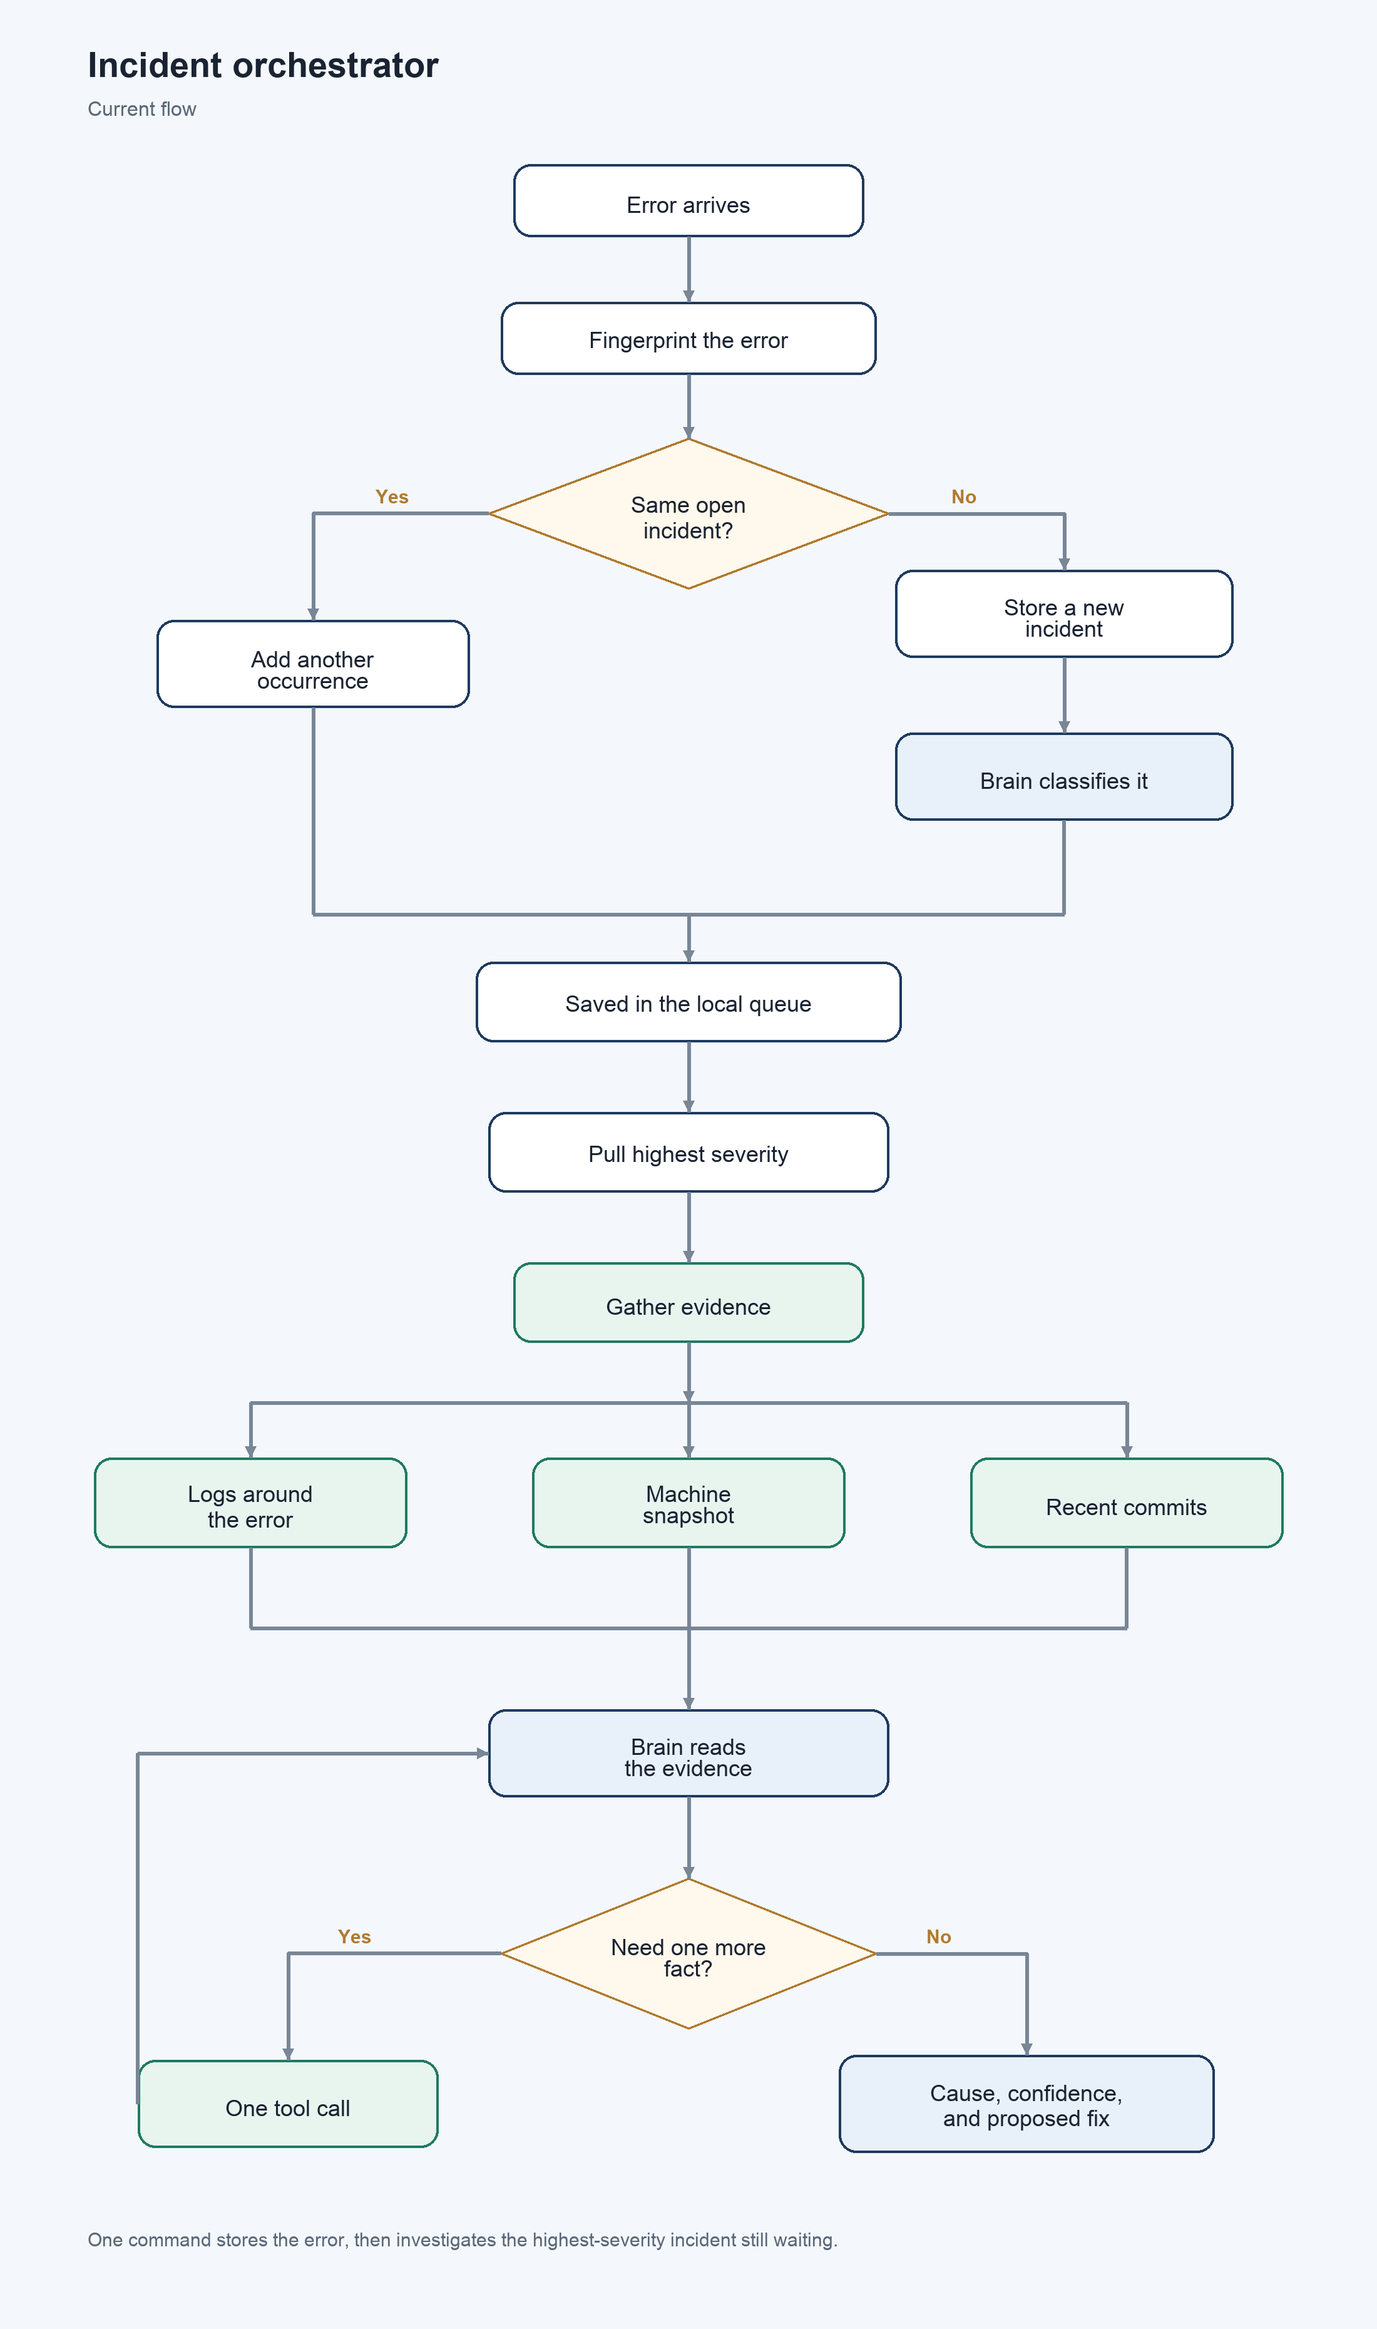
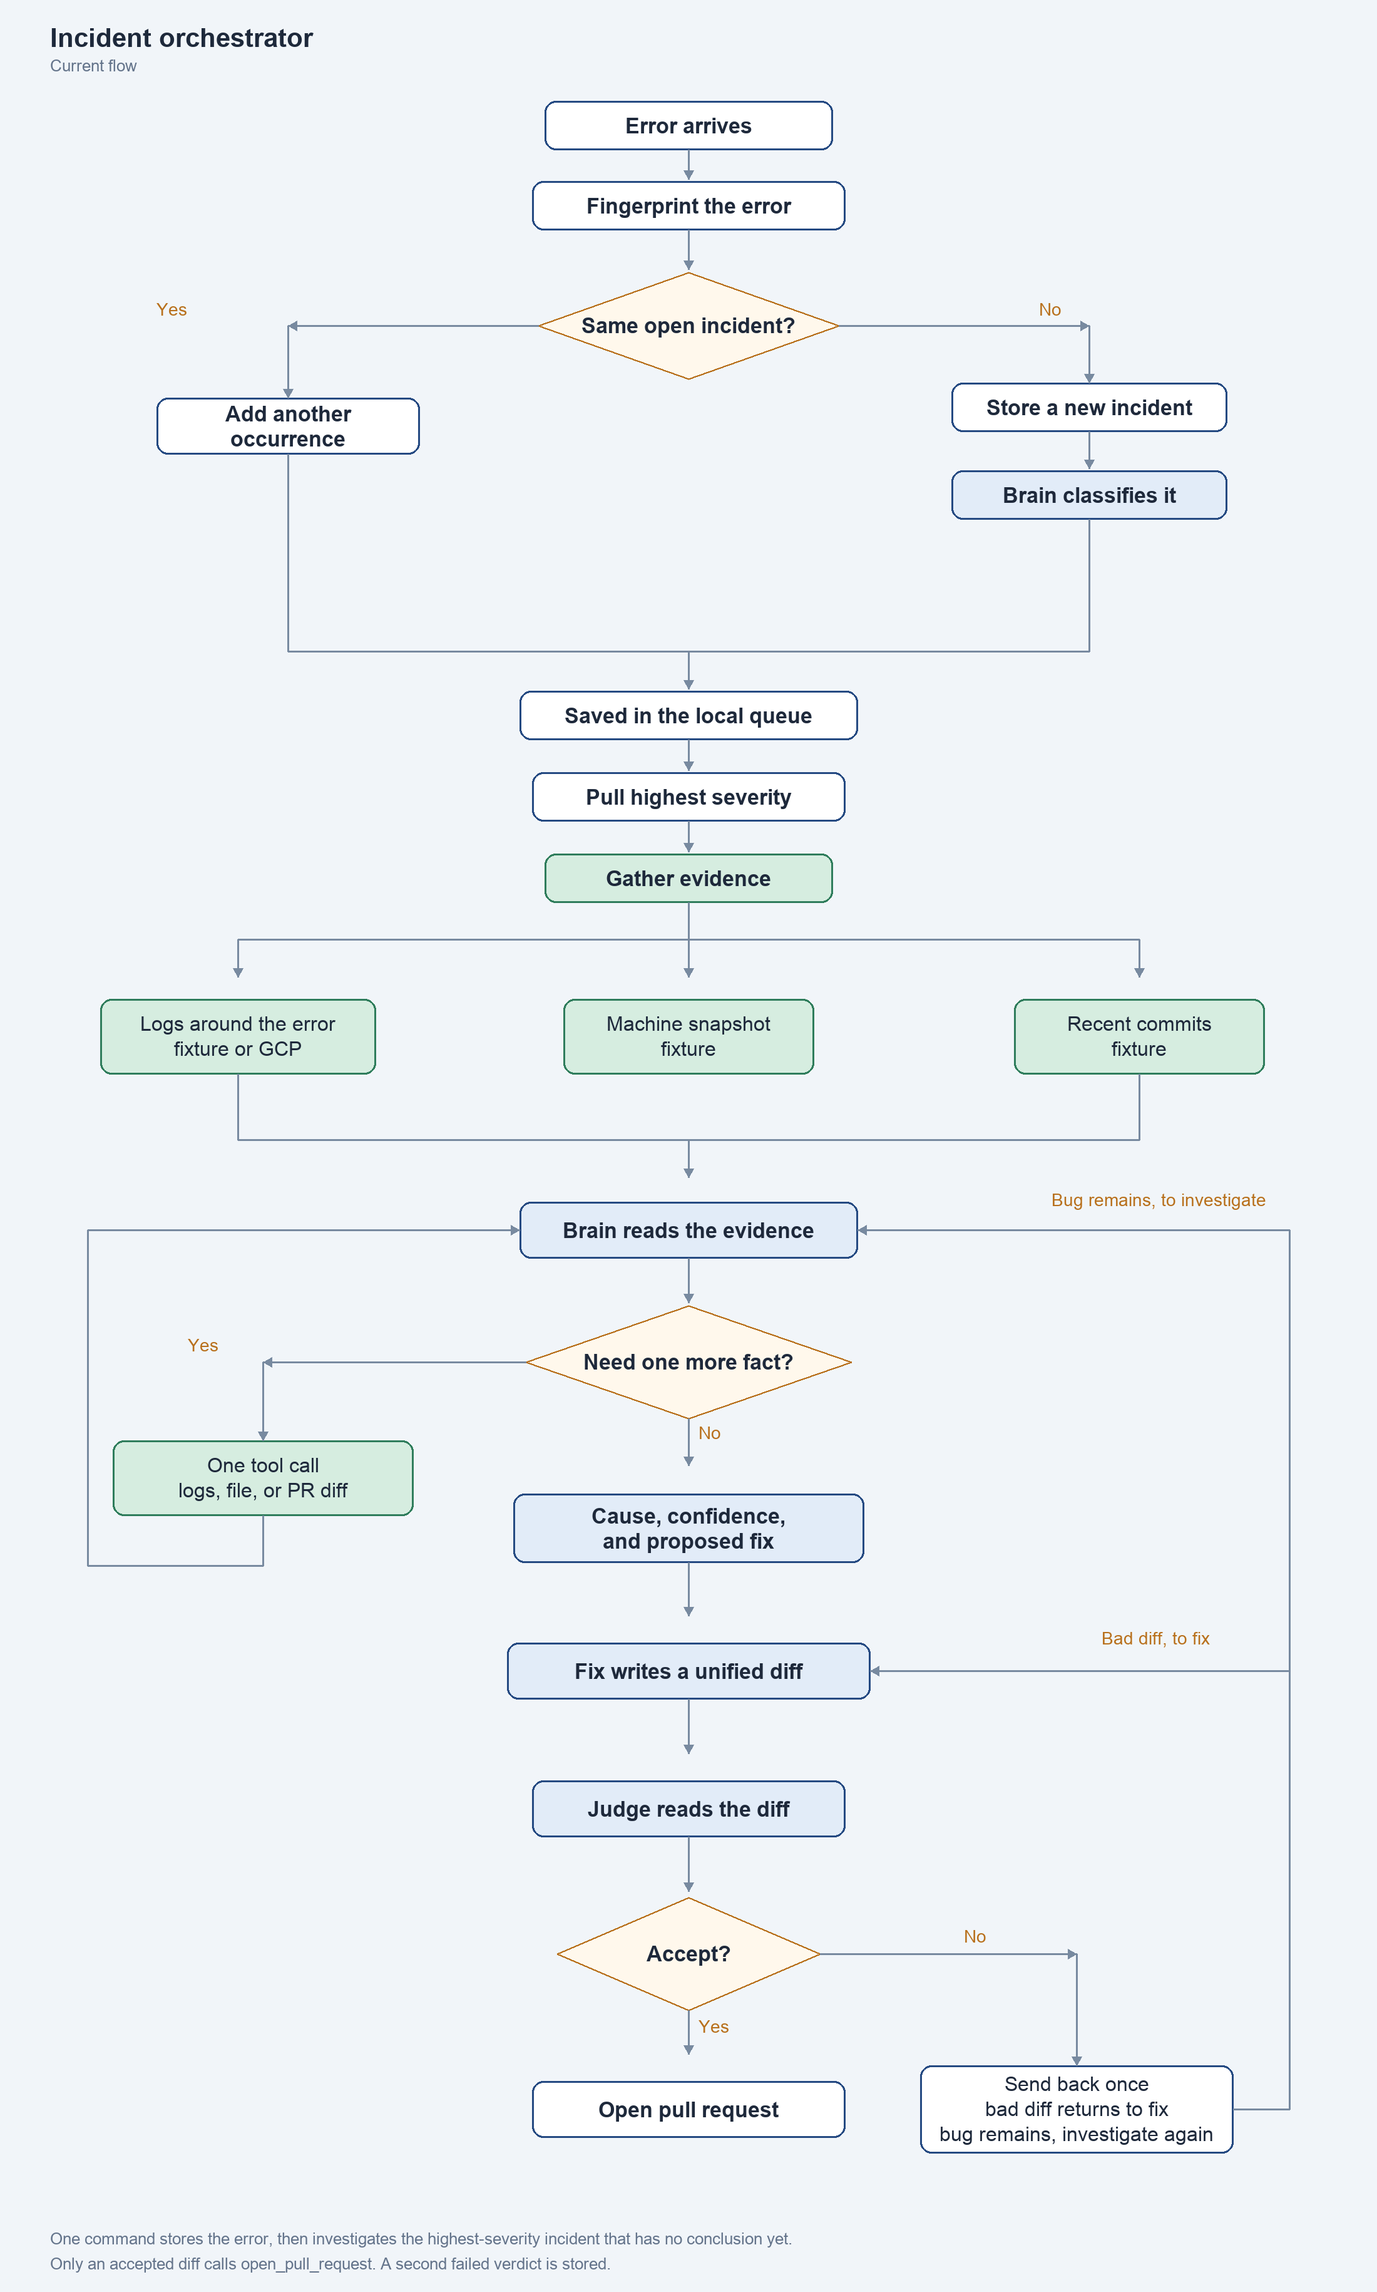
Read logs and GitHub through the MCP servers when the tunnels are up.

diff --git a/agentsmith/adapters/logs.py b/agentsmith/adapters/logs.py
@@ -1,11 +1,17 @@
-"""Fixture logs. Reads fixtures/logs.json and filters by machine, service, and time."""
+"""Logs. fixture reads fixtures/logs.json. mcp calls query_logs on the GCP MCP server."""
 
-from datetime import datetime
+import json
+import os
+from datetime import datetime, timedelta
 
 from pydantic import TypeAdapter
 
 from agentsmith.adapters.fixture_io import as_utc, load_fixture
-from agentsmith.tools import LogRecord
+from agentsmith.adapters.mcp_client import call_tool
+from agentsmith.tools import LogRecord, ToolError
+
+_DEFAULT_MCP_URL = "http://127.0.0.1:8000/mcp"
+_PAGE = 50  # ponytail: one query_logs page; follow next_cursor if a window needs more than 50 lines
 
 _LOGS = TypeAdapter(list[LogRecord])
 
@@ -32,3 +38,97 @@ class FixtureLogs:
             and (service is None or record.service == service)
         ]
         return sorted(matched, key=lambda record: as_utc(record.timestamp))
+
+
+class McpLogs:
+    """Calls query_logs on mcp-gcp. The SSH tunnel must already be open."""
+
+    def __init__(self, url: str | None = None) -> None:
+        self.url = (url or os.environ.get("LOGS_MCP_URL") or _DEFAULT_MCP_URL).strip()
+
+    def get_logs(
+        self,
+        *,
+        machine_id: str | None,
+        start_time: datetime,
+        end_time: datetime,
+        service: str | None = None,
+    ) -> list[LogRecord]:
+        start = as_utc(start_time)
+        end = as_utc(end_time)
+        hours = max((end - start).total_seconds() / 3600, 0.01)
+        raw = call_tool(
+            self.url,
+            "query_logs",
+            {
+                "filter": _service_filter(service),
+                "hours": hours,
+                "end": end.strftime("%Y-%m-%dT%H:%M:%SZ"),
+                "limit": _PAGE,
+            },
+            server="GCP logs",
+        )
+        try:
+            payload = json.loads(raw)
+            entries = payload["entries"]
+        except (TypeError, KeyError, json.JSONDecodeError) as exc:
+            raise ToolError("query_logs must return JSON with entries") from exc
+        records = []
+        for entry in entries:
+            record = _record(entry, machine_id=machine_id, service=service)
+            if record is not None and start <= as_utc(record.timestamp) <= end:
+                records.append(record)
+        return records
+
+
+def _service_filter(service: str | None) -> str:
+    if not service:
+        return ""
+    safe = service.replace("\\", "\\\\").replace('"', '\\"')
+    return (
+        f'(jsonPayload.app="{safe}" OR resource.labels.container_name="{safe}" '
+        f'OR resource.labels.pod_name:"{safe}" OR textPayload:"{safe}")'
+    )
+
+
+def _record(entry: object, *, machine_id: str | None, service: str | None) -> LogRecord | None:
+    if not isinstance(entry, dict) or not entry.get("time"):
+        return None
+    labels = entry.get("labels") if isinstance(entry.get("labels"), dict) else {}
+    payload = entry.get("payload")
+    message = payload if isinstance(payload, str) else json.dumps(payload, default=str)
+    return LogRecord(
+        timestamp=entry["time"],
+        machine_id=machine_id or str(labels.get("pod_name") or labels.get("cluster_name") or "gcp"),
+        service=service or str(labels.get("container_name") or entry.get("log") or "gcp"),
+        severity=str(entry.get("severity") or "DEFAULT"),
+        message=message,
+    )
+
+
+def _self_check() -> None:
+    end = datetime.fromisoformat("2026-10-07T12:25:18+00:00")
+    start = end - timedelta(minutes=2)
+    assert _service_filter("analyzer_reader").startswith("(jsonPayload.app=")
+    assert _service_filter(None) == ""
+    record = _record(
+        {
+            "time": "2026-10-07T12:25:18.651763567Z",
+            "severity": "ERROR",
+            "log": "stdout",
+            "labels": {"pod_name": "livekit"},
+            "payload": {"message": "Failed to delete room"},
+        },
+        machine_id=None,
+        service=None,
+    )
+    assert record is not None
+    assert record.machine_id == "livekit"
+    assert "Failed to delete room" in record.message
+    assert as_utc(record.timestamp) > start
+    assert isinstance(FixtureLogs(), FixtureLogs)
+
+
+if __name__ == "__main__":
+    _self_check()
+    print("ok")

diff --git a/agentsmith/adapters/github.py b/agentsmith/adapters/github.py
@@ -1,10 +1,10 @@
 """GitHub access. fixture reads local samples; mcp calls the GitHub MCP server."""
 
-import asyncio
 import json
 import os
 from pathlib import Path
 
+from agentsmith.adapters.mcp_client import call_tool
 from agentsmith.tools import PullRequest, ToolError
 
 _FIXTURE = Path(__file__).resolve().parent.parent.parent / "fixtures" / "github.json"
@@ -59,16 +59,19 @@ class McpGitHub:
         arguments = {"repo": repo, "path": path}
         if ref:
             arguments["ref"] = ref
-        return _call_tool(self.url, "get_file", arguments)
+        return call_tool(self.url, "get_file", arguments, server="GitHub")
 
     def get_pull_request_diff(self, *, repo: str, number: int) -> str:
-        return _call_tool(self.url, "get_pull_request_diff", {"repo": repo, "number": number})
+        return call_tool(
+            self.url, "get_pull_request_diff", {"repo": repo, "number": number}, server="GitHub"
+        )
 
     def open_pull_request(self, *, repo: str, title: str, body: str, diff: str) -> PullRequest:
-        raw = _call_tool(
+        raw = call_tool(
             self.url,
             "open_pull_request",
             {"repo": repo, "title": title, "body": body, "diff": diff},
+            server="GitHub",
         )
         try:
             data = json.loads(raw)
@@ -78,36 +81,3 @@ class McpGitHub:
             raise ToolError("open_pull_request must return JSON with number and html_url") from exc
         return PullRequest(repo=repo, number=number, title=str(data.get("title") or title), html_url=url)
 
-
-def _call_tool(url: str, name: str, arguments: dict) -> str:
-    try:
-        return asyncio.run(_call_tool_async(url, name, arguments))
-    except ToolError:
-        raise
-    except Exception as exc:
-        raise ToolError(f"GitHub MCP {name} failed: {exc}") from exc
-
-
-async def _call_tool_async(url: str, name: str, arguments: dict) -> str:
-    from mcp import ClientSession
-    from mcp.client.streamable_http import streamable_http_client
-
-    async with streamable_http_client(url) as (read_stream, write_stream):
-        async with ClientSession(read_stream, write_stream) as session:
-            await session.initialize()
-            result = await session.call_tool(name, arguments)
-    if getattr(result, "is_error", False):
-        raise ToolError(_result_text(result) or f"GitHub MCP {name} returned an error")
-    text = _result_text(result)
-    if not text:
-        raise ToolError(f"GitHub MCP {name} returned no text")
-    return text
-
-
-def _result_text(result: object) -> str:
-    parts = []
-    for block in getattr(result, "content", []) or []:
-        text = getattr(block, "text", None)
-        if text:
-            parts.append(text)
-    return "\n".join(parts)

diff --git a/agentsmith/adapters/mcp_client.py b/agentsmith/adapters/mcp_client.py
@@ -1,0 +1,39 @@
+"""One streamable-HTTP call to an MCP tool server."""
+
+import asyncio
+
+from agentsmith.tools import ToolError
+
+
+def call_tool(url: str, name: str, arguments: dict, *, server: str) -> str:
+    try:
+        return asyncio.run(_call_tool_async(url, name, arguments, server))
+    except ToolError:
+        raise
+    except Exception as exc:
+        raise ToolError(f"{server} MCP {name} failed: {exc}") from exc
+
+
+async def _call_tool_async(url: str, name: str, arguments: dict, server: str) -> str:
+    from mcp import ClientSession
+    from mcp.client.streamable_http import streamable_http_client
+
+    async with streamable_http_client(url) as (read_stream, write_stream):
+        async with ClientSession(read_stream, write_stream) as session:
+            await session.initialize()
+            result = await session.call_tool(name, arguments)
+    if getattr(result, "is_error", False):
+        raise ToolError(_result_text(result) or f"{server} MCP {name} returned an error")
+    text = _result_text(result)
+    if not text:
+        raise ToolError(f"{server} MCP {name} returned no text")
+    return text
+
+
+def _result_text(result: object) -> str:
+    parts = []
+    for block in getattr(result, "content", []) or []:
+        text = getattr(block, "text", None)
+        if text:
+            parts.append(text)
+    return "\n".join(parts)

diff --git a/agentsmith/tools.py b/agentsmith/tools.py
@@ -99,11 +99,11 @@ def load_tools() -> Toolset:
     load_project_env()
     from agentsmith.adapters.git import FixtureGit
     from agentsmith.adapters.github import FixtureGitHub, McpGitHub
-    from agentsmith.adapters.logs import FixtureLogs
+    from agentsmith.adapters.logs import FixtureLogs, McpLogs
     from agentsmith.adapters.telemetry import FixtureTelemetry
 
     return Toolset(
-        logs=_select("LOGS_ADAPTER", {"fixture": FixtureLogs}),
+        logs=_select("LOGS_ADAPTER", {"fixture": FixtureLogs, "mcp": McpLogs}),
         telemetry=_select("TELEMETRY_ADAPTER", {"fixture": FixtureTelemetry}),
         git=_select("GIT_ADAPTER", {"fixture": FixtureGit}),
         github=_select("GITHUB_ADAPTER", {"fixture": FixtureGitHub, "mcp": McpGitHub}),

diff --git a/AGENTS.md b/AGENTS.md
@@ -22,11 +22,9 @@ One command stores the error from the file you pass, then investigates the highe
 
 That directory is a local clone of the manager's platform, `lumanaai/agentic-dev`, and is gitignored. It is not part of this repo. He runs it on one VM with Docker Compose, the Claude Agent SDK, Redis, and Postgres. His agents edit code inside a worktree. We do not move this orchestrator onto that platform, and we do not start his ingress, scheduler, workers, Redis, or Postgres.
 
-We keep this pipeline and call his tools. The only tool server he has implemented is GitHub (`tools/mcp-servers/github`). A logs server is named in his README and has no code. His GitHub server is read-only and only answers for repos listed in his `config/repos.yaml` (currently `lumanaai/example-service`).
+We keep this pipeline and call his tools. The tool servers this loop uses are GitHub (`tools/mcp-servers/github`) and GCP logs (`tools/mcp-servers/gcp`). His GitHub server is read-only and only answers for repos listed in his `config/repos.yaml` (`lumanaai/analytics`, `lumanaai/edge`, `lumanaai/lumix-cloud`). `query_logs` reads Cloud Logging in the projects listed in his `config/mcp-servers.yaml`. Machine state and recent commits stay on fixture adapters. Do not treat loose commits as how this company ships. Production changes are merged pull requests.
 
-`get_file` and `get_pull_request_diff` go to that server when `GITHUB_ADAPTER=mcp`. Logs, machine state, and recent commits stay on fixture adapters until a real server exists. His server also has `list_merged_pull_requests` and `find_files` added in this clone; this loop does not call them yet. Do not treat loose commits as how this company ships. Production changes are merged pull requests.
-
-His GitHub container does not publish a port. It listens on the VM's Docker network. From this machine, forward that port with SSH and point `GITHUB_MCP_URL` at `http://127.0.0.1:8000/mcp`. The current login is `ibrahimjub@192.168.100.65`, and his checkout on that machine is `/agentic-dev`. The GitHub App private key stays on the VM in `/etc/agentic/secrets`. Do not copy it into this repo. This project does not need to run on that VM.
+`get_file` and `get_pull_request_diff` go to the GitHub server when `GITHUB_ADAPTER=mcp`. `get_logs` calls `query_logs` when `LOGS_ADAPTER=mcp`. Neither container publishes a port. Each listens on the VM's Docker network. From this machine, forward each container with SSH and point `LOGS_MCP_URL` and `GITHUB_MCP_URL` at the local ends of those tunnels. The current login is `ibrahimjub@192.168.100.65`, and his checkout on that machine is `/agentic-dev`. The GitHub App private key and the GCP service-account key stay on the VM in `/etc/agentic/secrets`. Do not copy them into this repo. This project does not need to run on that VM.
 
 ## Config
 

diff --git a/docs/architecture.md b/docs/architecture.md
@@ -19,16 +19,23 @@ flowchart TD
   count --> saved
   saved --> pull["Pull highest severity"]
   pull --> evidence["Gather evidence"]
-  evidence --> logs["Logs around the error"]
-  evidence --> machine["Machine snapshot"]
-  evidence --> commits["Recent commits"]
+  evidence --> logs["Logs: fixture or GCP"]
+  evidence --> machine["Machine snapshot: fixture"]
+  evidence --> commits["Recent commits: fixture"]
   logs --> brain["Brain reads the evidence"]
   machine --> brain
   commits --> brain
   brain --> more{"Need one more fact?"}
-  more -->|yes| tool["One tool call"]
+  more -->|yes| tool["One tool call: logs, file, or PR diff"]
   tool --> brain
   more -->|no| result["Cause, confidence, and proposed fix"]
+  result --> fix["Fix writes a unified diff"]
+  fix --> judge["Judge reads the diff"]
+  judge --> accept{"Accept?"}
+  accept -->|yes| pr["Open pull request"]
+  accept -->|no| back["Send back once"]
+  back -->|bad diff| fix
+  back -->|bug remains| brain
 ```
 
 The fingerprint is a hash of the service, the normalized message, and the top stack frames. Two reports of the same crash stay one incident. Classification chooses a category, a severity, the likely component, and a short reason. Severity orders the queue. The command then pulls the highest-severity incident that has no conclusion yet. That may be an older incident, not the error that just arrived.

diff --git a/README.md b/README.md
@@ -23,7 +23,7 @@ Folders:
 - `agentsmith/brains/` is the model boundary. Stages call a `Brain`. `ClaudeBrain` is the current implementation and runs as `sonnet` or `opus`.
 - `agentsmith/adapters/` is the only place that contacts an external system. Logs, git, telemetry, and issues each get one module.
 
-`agentsmith/tools.py` is the dispatcher stages call. The tools are `get_logs`, `get_machine_state`, `get_recent_changes`, `get_file`, `get_pull_request_diff`, and `open_pull_request`. `LOGS_ADAPTER`, `TELEMETRY_ADAPTER`, `GIT_ADAPTER`, and `GITHUB_ADAPTER` select the implementation. `fixture` is the default. `GITHUB_ADAPTER=mcp` calls the GitHub MCP server at `GITHUB_MCP_URL`. That server has to be running first. Logs stay on fixtures until a logs server exists.
+`agentsmith/tools.py` is the dispatcher stages call. The tools are `get_logs`, `get_machine_state`, `get_recent_changes`, `get_file`, `get_pull_request_diff`, and `open_pull_request`. `LOGS_ADAPTER`, `TELEMETRY_ADAPTER`, `GIT_ADAPTER`, and `GITHUB_ADAPTER` select the implementation. `fixture` is the default. `GITHUB_ADAPTER=mcp` calls the GitHub MCP server at `GITHUB_MCP_URL`. `LOGS_ADAPTER=mcp` calls `query_logs` on the GCP logs server at `LOGS_MCP_URL`. Both stay on `fixture` when those tunnels are down.
 
 `report.py` is the placeholder for the Markdown report.
 
